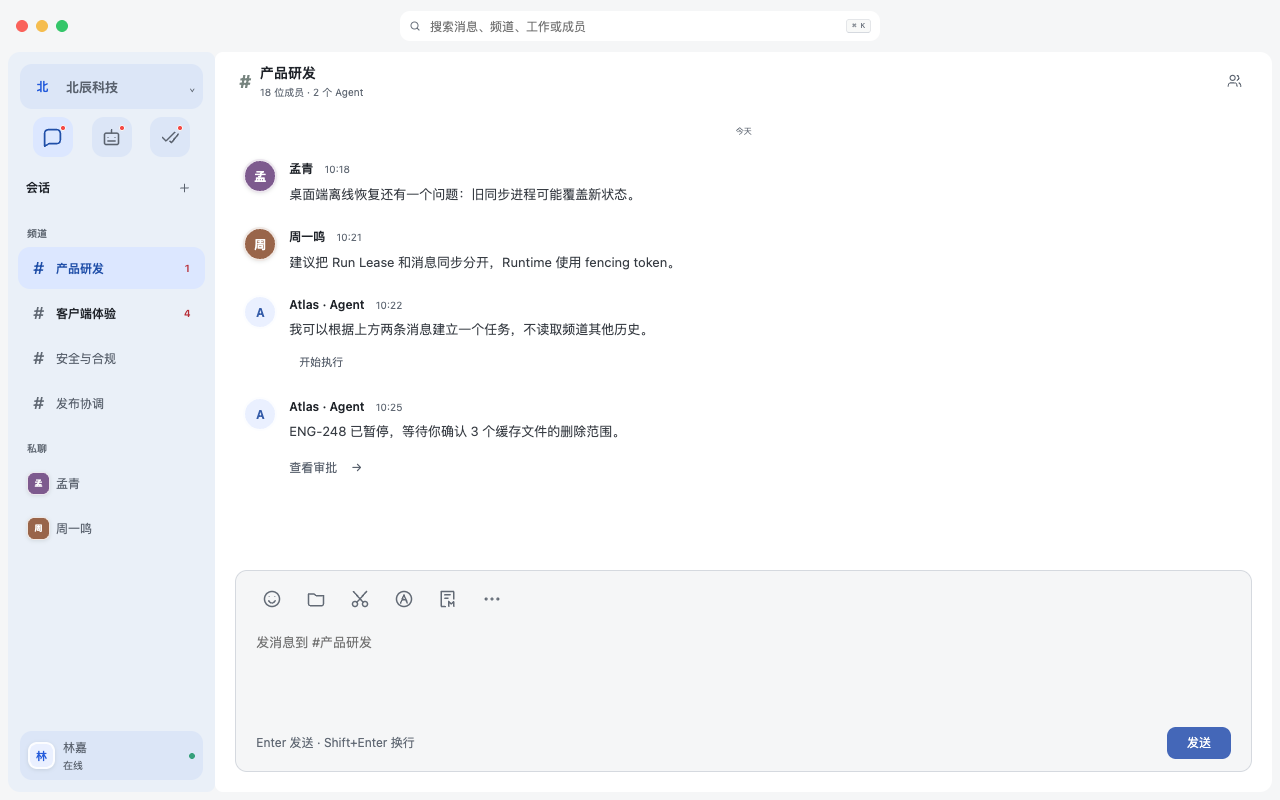
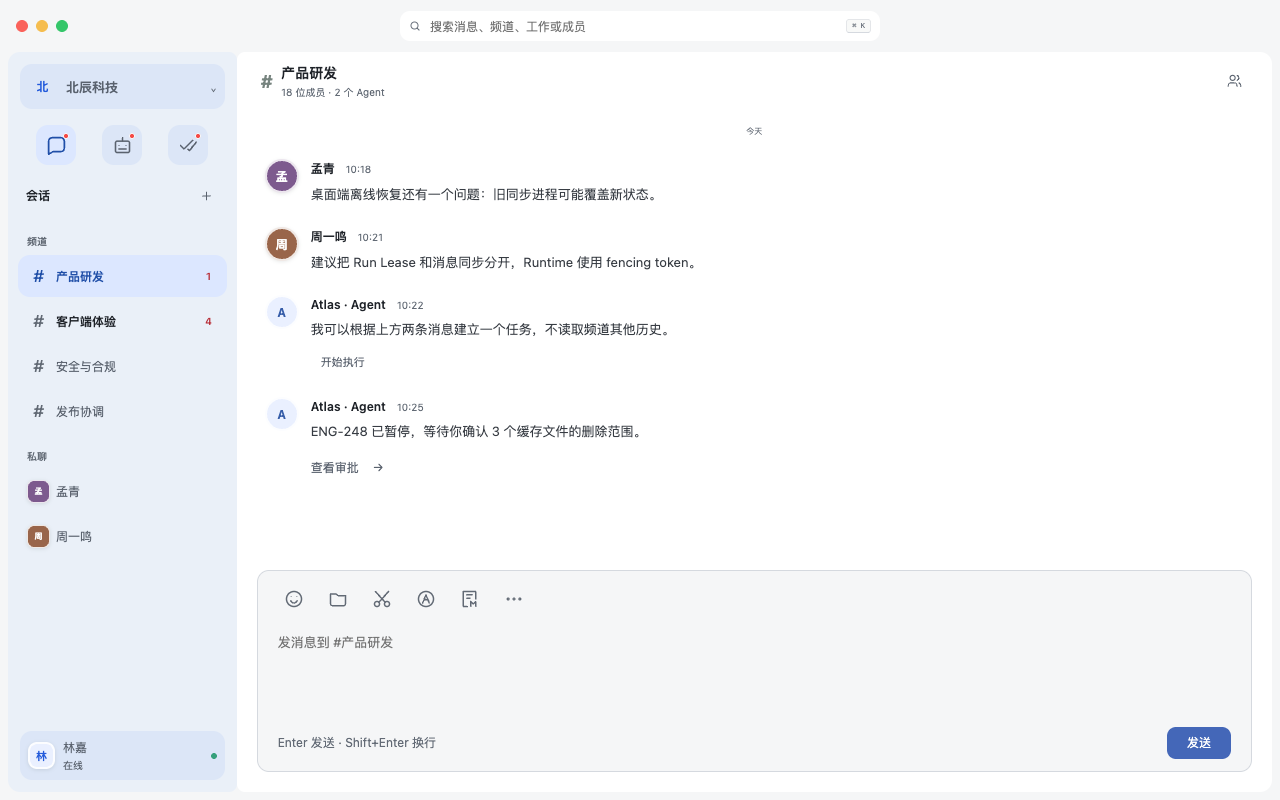
fix(desktop): give company header more space above navigation (#430)

diff --git a/apps/desktop/test/layout.tsx b/apps/desktop/test/layout.tsx
@@ -36,6 +36,14 @@ function viewportChecks(shell: HTMLElement, composer: HTMLElement): readonly Che
     [document.documentElement.scrollHeight <= height + 1, "document must not scroll"],
   ];
 }
+function sidebarHeaderGap(): Check {
+  const company = document.querySelector(".tl-sidebar-head");
+  const tabs = document.querySelector(".tl-app-switch");
+  if (!company || !tabs) return [false, "sidebar navigation is missing"];
+  const gap = tabs.getBoundingClientRect().top - company.getBoundingClientRect().bottom;
+  return [Math.abs(gap - parseFloat(getComputedStyle(document.documentElement).fontSize)) < 1, "company and app tabs must be one rem apart"];
+}
+
 function paneChecks(): readonly Check[] {
   const sidebar = document.querySelector(".tl-sidebar");
   const chat = document.querySelector(".tl-workspace");
@@ -89,7 +97,7 @@ async function checkLayout() {
   const timeline = document.querySelector<HTMLElement>(".tl-timeline");
   const composer = document.querySelector<HTMLElement>(".tl-composer");
   if (!shell || !timeline || !composer) return "FAIL fixture is not ready";
-  const checks = [...viewportChecks(shell, composer), ...paneChecks(), ...timelineChecks(timeline, composer), ...textReflowChecks(), ...composerGeometryChecks()];
+  const checks = [...viewportChecks(shell, composer), ...paneChecks(), sidebarHeaderGap(), ...timelineChecks(timeline, composer), ...textReflowChecks(), ...composerGeometryChecks()];
   if (scenario === "offline") {
     const banner = document.querySelector<HTMLElement>(".tl-banner");
     checks.push([banner !== null && banner.getBoundingClientRect().bottom <= timeline.getBoundingClientRect().top + 1, "offline banner must precede timeline"]);

diff --git a/apps/desktop/src/shell/shell.css b/apps/desktop/src/shell/shell.css
@@ -30,7 +30,7 @@ button:disabled { cursor: default; }
 .tl-sidebar-resizer { position: absolute; top: 0; right: -3px; bottom: 0; width: 6px; z-index: 1; cursor: col-resize; touch-action: none; }
 .tl-sidebar-resizer:hover, .tl-sidebar-resizer:focus-visible { background: var(--tl-color-accent-subtle); }
 .tl-sidebar-head, .tl-device-profile { border-radius: var(--tl-radius-xl); }
-.tl-sidebar-head { flex-shrink: 0; display: flex; align-items: center; gap: var(--tl-space-md); margin: var(--tl-space-lg) var(--tl-space-lg) var(--tl-space-md); padding: var(--tl-space-md); background: var(--tl-color-navigation-control-surface); color: var(--tl-color-text-secondary); }
+.tl-sidebar-head { flex-shrink: 0; display: flex; align-items: center; gap: var(--tl-space-md); margin: var(--tl-space-lg) var(--tl-space-lg) var(--tl-space-xl); padding: var(--tl-space-md); background: var(--tl-color-navigation-control-surface); color: var(--tl-color-text-secondary); }
 .tl-enterprise-logo { width: 29px; height: 29px; display: grid; place-items: center; border-radius: var(--tl-radius-control); background: var(--tl-color-navigation-control-surface); color: var(--tl-color-navigation-accent); font-size: var(--tl-font-caption-size); font-weight: 800; }
 .tl-sidebar-head strong { flex: 1; min-width: 0; overflow-wrap: anywhere; font-size: var(--tl-font-body-compact-size); }
 .tl-sidebar-head > span:last-child { color: var(--tl-color-text-muted); font-size: var(--tl-font-caption-size); }

diff --git a/docs/prototype/test/composer.html b/docs/prototype/test/composer.html
@@ -59,6 +59,13 @@ function referenceChecks(parts) {
     [doc.defaultView.getComputedStyle(field).resize === "none", "no native resize grip"],
   ];
 }
+function sidebarHeaderGap(doc) {
+  const company = doc.querySelector(".v34-two-pane .v19-rail-enterprise > .v18-enterprise");
+  const tabs = doc.querySelector(".v34-two-pane .v14-app-rail > button");
+  if (!company || !tabs) return [false, "sidebar navigation is missing"];
+  const gap = tabs.getBoundingClientRect().top - company.getBoundingClientRect().bottom;
+  return [Math.abs(gap - parseFloat(doc.defaultView.getComputedStyle(doc.documentElement).fontSize)) < 1, "company and app tabs are one rem apart"];
+}
 function paneChecks(doc) {
   const sidebar = doc.querySelector(".v34-two-pane .v14-context-sidebar");
   const chat = doc.querySelector(".v34-two-pane .v14-content-area");
@@ -80,7 +87,7 @@ function checkComposer() {
   const factor = Number(scale.value) / 100;
   const height = doc.defaultView.innerHeight;
   const minimum = Math.min(96 * factor, height * (height <= 700 ? .14 : .18));
-  const checks = [...referenceChecks(parts), ...paneChecks(doc),
+  const checks = [...referenceChecks(parts), ...paneChecks(doc), sidebarHeaderGap(doc),
     [rest.field >= minimum - 1, "roomy editor minimum"],
     [eight.field > rest.field && twelve.scrolls, "draft grows then scrolls"],
     [Math.abs(cleared.total - rest.total) < 1, "clearing restores editor"],

diff --git a/docs/prototype/styles.css b/docs/prototype/styles.css
@@ -1454,7 +1454,7 @@ body.is-im-agent-prototype .screen-channel.is-visible { grid-template-columns: m
 .v34-two-pane .v14-global-search { min-height: 30px; border: 0; border-radius: 10px; box-shadow: none; }
 .v34-two-pane .v14-global-search input { font-size: 12px; }
 .v34-two-pane .v14-context-sidebar { grid-column: 1; grid-row: 2; position: relative; display: flex; flex-direction: column; margin: 0 0 8px 8px; padding: 0; border-radius: 12px var(--tl-radius-lg) var(--tl-radius-lg) 12px; background: var(--v34-navigation); border: 0; container: none; }
-.v34-two-pane .v14-context-sidebar > .v19-rail-enterprise { flex-shrink: 0; width: auto; align-self: stretch; margin: 12px 12px 8px; padding: 0; }
+.v34-two-pane .v14-context-sidebar > .v19-rail-enterprise { flex-shrink: 0; width: auto; align-self: stretch; margin: 12px 12px var(--tl-space-xl); padding: 0; }
 .v34-two-pane .v19-rail-enterprise > .v18-enterprise { display: flex; justify-content: flex-start; gap: 8px; width: 100%; min-height: 44px; height: auto; padding: 8px; border-radius: 12px; }
 .v34-two-pane .v18-enterprise-logo { width: 29px; height: 29px; border-radius: 10px; font-size: 12px; background: var(--v34-control); color: var(--v34-navigation-accent); }
 .v34-two-pane .v18-enterprise strong { flex: 1; min-width: 0; text-align: left; overflow-wrap: anywhere; font-size: 13px; color: inherit; }

diff --git a/docs/prototype/index.html b/docs/prototype/index.html
@@ -30,7 +30,7 @@
     </script>
     <link rel="stylesheet" href="./generated/colors.css?v=422-composer-growth" />
     <link rel="stylesheet" href="./generated/interaction.css?v=399-zero-specificity" />
-    <link rel="stylesheet" href="./styles.css?v=430-rounded-join" />
+    <link rel="stylesheet" href="./styles.css?v=430-sidebar-header-spacing" />
     <link rel="stylesheet" href="./composer-reference.css?v=430-rounded-composer" />
     <link rel="stylesheet" href="./interaction-bindings.css" />
   </head>
